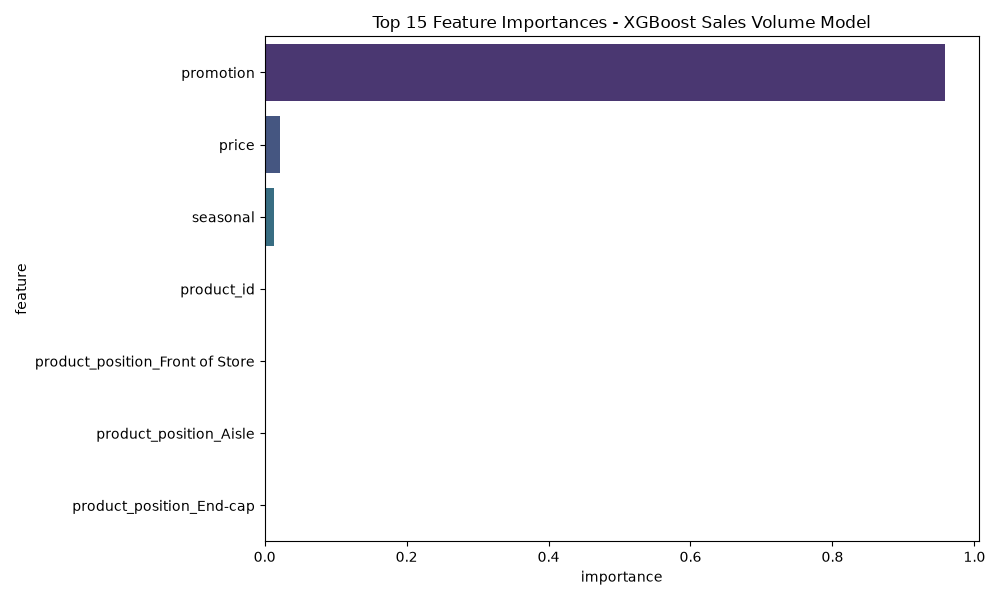
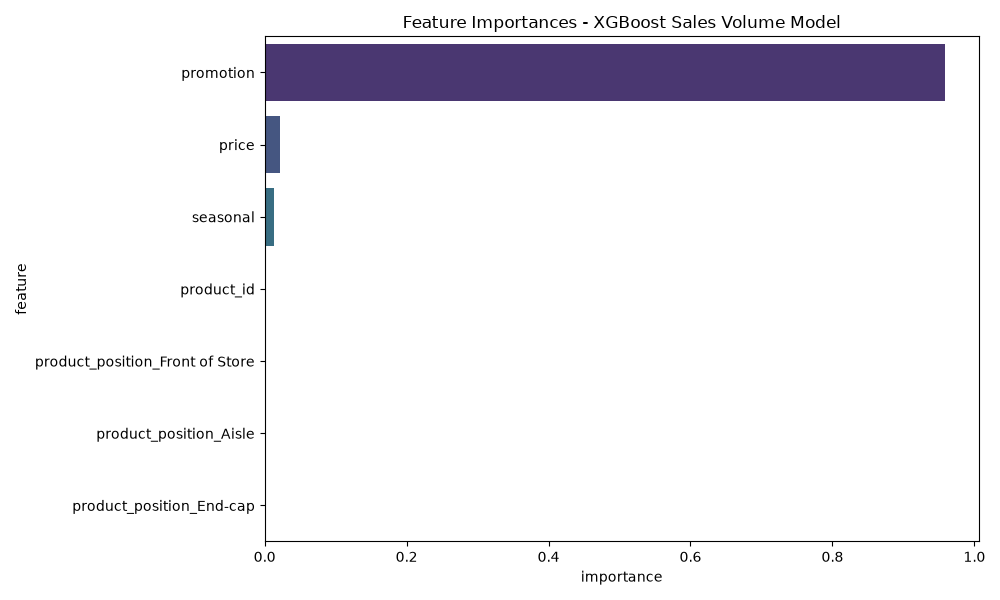
have added in a further visual to my modelling.py as one feature was dominating the chart and wanted to visually be able to see what other features scores were

Changed region(s): [[0.372, 0.03, 0.868, 0.06]]

diff --git a/src/modelling.py b/src/modelling.py
@@ -1,6 +1,7 @@
 #Purpose :This file contains all your machine learning or statistical modelling code, such as: linear regression, clustering (KMeans),
 #forecasting models, evaluation metrics
 
+#trying to build a model to predict sales volume based on the cleaned data
 
 import os
 import pandas as pd
@@ -26,7 +27,7 @@ df = pd.read_csv(DATA_PATH)
 
 
 # ------------------------------------------------------------
-# 2. Remove all text/object columns (XGBoost cannot use them)
+# 2. Remove all text/object columns (XGBoost can't use them)
 # ------------------------------------------------------------
 
 text_cols = df.select_dtypes(include=['object', 'string']).columns.tolist()
@@ -34,7 +35,7 @@ df = df.drop(columns=text_cols)
 
 
 # ------------------------------------------------------------
-# 3. Encode remaining categorical columns
+# 3. Encoding remaining categorical columns
 # ------------------------------------------------------------
 
 categorical_cols = []
@@ -47,7 +48,7 @@ df = pd.get_dummies(df, columns=categorical_cols, drop_first=True)
 
 
 # ------------------------------------------------------------
-# 4. Define features and target
+# 4. Defining features and target
 # ------------------------------------------------------------
 
 TARGET_COL = 'sales_volume'
@@ -118,7 +119,7 @@ sns.barplot(
     legend=False,
     palette='viridis'
 )
-plt.title("Top 15 Feature Importances - XGBoost Sales Volume Model")
+plt.title("Feature Importances - XGBoost Sales Volume Model")
 plt.tight_layout()
 
 VISUALS_PATH = os.path.join(BASE_DIR, "..", "visuals", "xgboost_feature_importance.png")
@@ -126,3 +127,26 @@ plt.savefig(VISUALS_PATH)
 plt.close()
 
 print(f"Feature importance plot saved to: {VISUALS_PATH}")
+
+
+#reviewing the feature importance plot, where promotion is dominating the chart i now want to drop promotion so i can see the other features and their importance.
+
+importance_df_no_promo = importance_df[importance_df['feature'] != 'promotion']
+
+plt.figure(figsize=(10, 6))
+sns.barplot(
+    data=importance_df_no_promo,
+    x='importance',
+    y='feature',
+    hue='feature',
+    legend=False,
+    palette='viridis'
+)
+plt.title("Feature Importances (Excluding Promotion)")
+plt.tight_layout()
+
+path = os.path.join(BASE_DIR, "..", "visuals", "feature_importance_no_promo.png")
+plt.savefig(path)
+plt.close()
+
+print(f"Saved: {path}")
